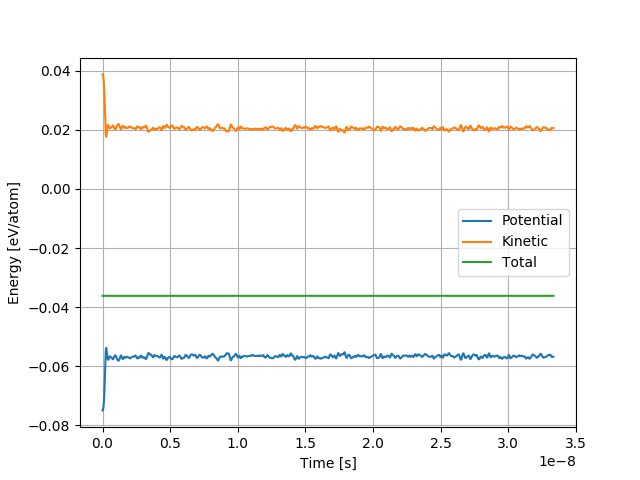
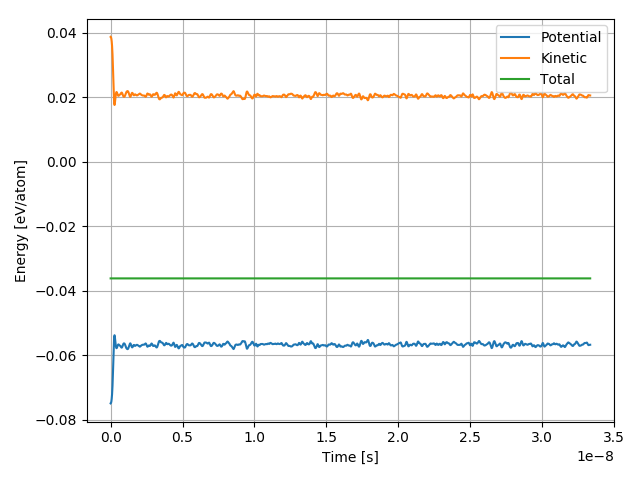
Changed plots.

diff --git a/scripts/hw2/energyplots.py b/scripts/hw2/energyplots.py
@@ -38,19 +38,21 @@ for key in data:
         pl.ylabel('Energy [eV/atom]')
         pl.legend(loc='best')
         pl.grid()
+        pl.tight_layout()
         pl.savefig('./figures/'+key+'single')
         pl.clf()
 
 for key in data:
     if 'large' not in key:
         name = key.split('p')[-1]
-        name = '0.'+name+' [-] reduced L-J Time Step'
+        name = '0.'+name+' [-] reduced LJ Time Step'
         pl.plot(data[key]['time'][skip:end], data[key]['total'][skip:end], label=name)
 
 pl.xlabel('Time [s]')
 pl.ylabel('Energy [eV/atom]')
 pl.legend(loc='best')
 pl.grid()
+pl.tight_layout()
 pl.savefig('./figures/all')
 pl.clf()
 
@@ -66,5 +68,6 @@ for key in data:
         pl.ylabel('Energy [eV/atom]')
         pl.legend(loc='best')
         pl.grid()
+        pl.tight_layout()
         pl.savefig('./figures/'+key+'single')
         pl.clf()
